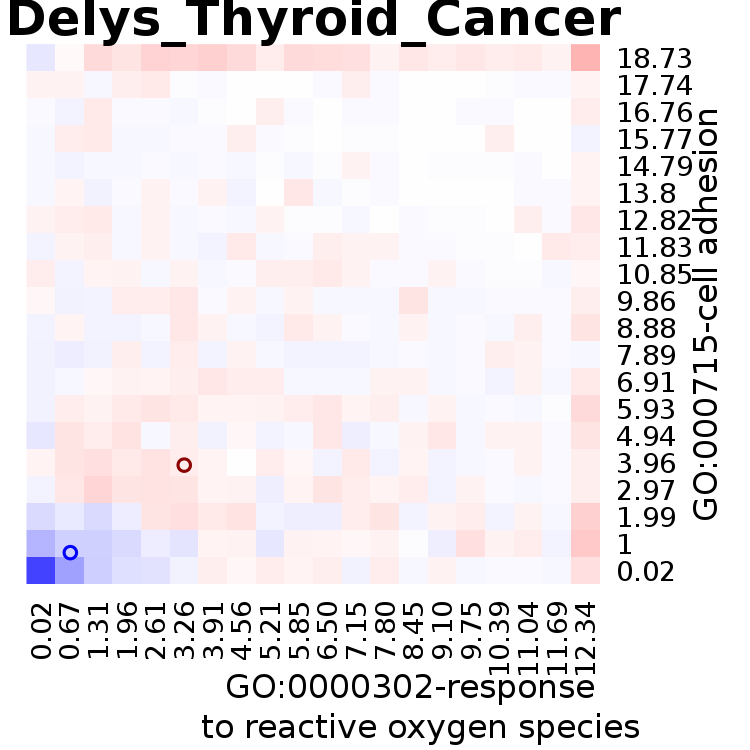
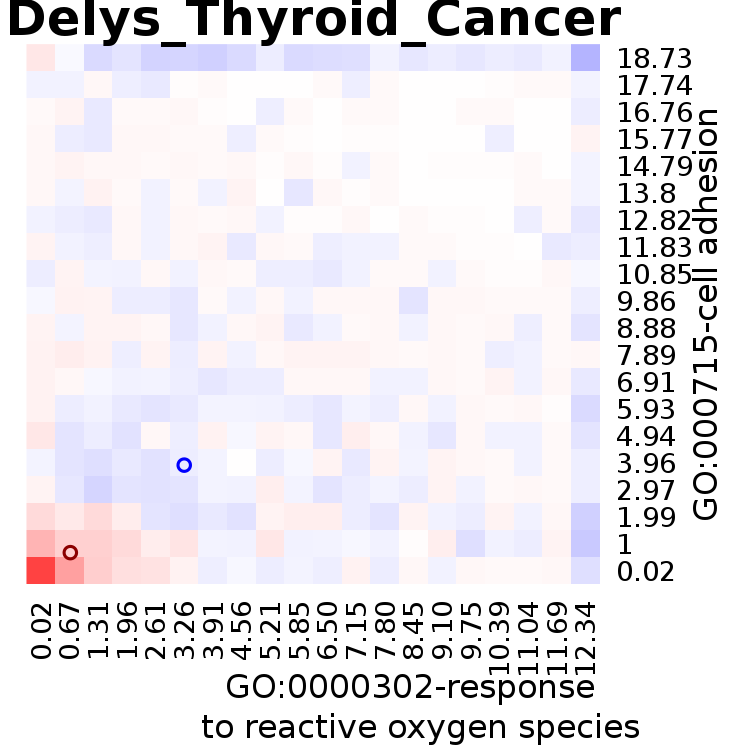
address comments

diff --git a/body.tex b/body.tex
@@ -61,7 +61,8 @@ offers researchers the ability to gain additional
 insight beyond singular features, without the prolonged waiting time
 needed to train a complex machine learning model.
 Moreover, the identified feature pairs can be effortlessly
-visualized in a two-dimensional interface.
+visualized in a two-dimensional interface, \silu{which is the most intuitive visualization to human perception. 
+Thus, users can easily interpret how one object class is separated from the other object class, by looking at how these two classes of objects are scattered across the two-dimensional visualization.}
 However, quickly identifying top feature pairs
 in typical biological datasets with many features
 is a challenging task due to some fundamental limitations:
@@ -698,11 +699,14 @@ for ranking \topk feature pairs using our
 Rocchio-based measure---we report the running time 
 and accuracy 
 of the algorithms. 
-Finally, we enumerate and visualize 
-the \topk feature pairs returned by \genviz, 
-compare them to the corresponding \topk single features, 
-and examine their significance and 
-support in existing publications.
+Second, we compare the \topk feature pairs returned by \genviz with the corresponding \topk single features, 
+and examine their significance and support in existing publications.
+Last, we present some sampled visualizations to illustrate the separability of the object classes. 
+%Finally, we enumerate and visualize 
+% the \topk feature pairs returned by \genviz, 
+% compare them to the corresponding \topk single features, 
+% and examine their significance and 
+% support in existing publications.
 
 %==================================================================
 \subsection{Evaluation Setup}
@@ -858,28 +862,28 @@ running time and the separability scores of their \topthousand reported feature 
 \begin{table*}[t]
 \centering
 \small
-\begin{tabular}{|c|c|c|c|c|c|c|c|c|}
+\begin{tabular}{|c|c|c|c|c||c|c|}
  %\hline
 
  \hline
- & \trans & \earlyT & Object Ordering & \sampling & Candidate Ordering & \traversal & Feature Ordering & Complexity\\
+ & \earlyT & \sampling & Candidate Ordering & \traversal & Approximation & Complexity\\
  \hline
- \baseline & yes & no & no & no & no & Any & no & $O(m^2n)$\\
+ \baseline & no  & no & no & Any & no &$O(m^2n)$\\
  \hline
  %\early & yes & yes & no & no & no & Any & no & $O(m^2n)$\\
  % \hline
- \earlyOrder & yes & yes & yes & no & no & Any & no & $O(m^2n)$\\
+ \earlyOrder  & yes & no & no & Any & no & $O(m^2n)$\\
  \hline
- \samp & yes & no & no & yes & no & Any & no & $O(mn+m^2|\sss|+|\cc|n)$\\
+ \samp  & no & yes & no & Any & yes(guarantee) & $O(mn+m^2|\sss|+|\cc|n)$\\
  \hline
- \sampOpt & yes & no & no & yes & yes & Any & no & $O(mn+m^2|\sss|+|\cc|n)$\\
+ \sampOpt  & no & yes & yes & Any  & yes(guarantee) & $O(mn+m^2|\sss|+|\cc|n)$\\
  \hline
- \horiz & yes & no & no & yes & yes & Horizontal & yes & $O(mn+\chi|\sss|+|\cc|n)$\\
+ \horiz   & no & yes & yes & Horizontal & yes(heuristic) & $O(mn+\chi|\sss|+|\cc|n)$\\
  \hline
- \vertic & yes & no & no & yes & yes & Vertical & yes & $O(mn+\chi|\sss|+|\cc|n)$ \\
+ \vertic   & no & yes & yes & Vertical  & yes(heuristic) & $O(mn+\chi|\sss|+|\cc|n)$ \\
  \hline
  \end{tabular}
-\caption{Selected Algorithms Using Different Optimization Modules. For each algorithm (row), shows which optimization modules are employed and the running time complexity for that combination where $m$ and $n$ are the number of features and objects, $\sss$ is the sampled set size, $\chi$ is the limit on the number of feature pairs considered, and $\cc$ is the number of generated feature pair candidates.}
+\caption{Selected Algorithms Using Different Optimization Modules. All algorithms, including the \baseline, are using \trans. In addition, \earlyT and \traversal are coupled with object ordering and feature ordering by default, respectively. For each algorithm (row), shows which optimization modules are employed, whether the algorithm is returning the exact answer or an approximation answer, and the running time complexity for that combination. The term "guarantee" ("heuristic", resp.) indicates that the returned answer is with (without, resp.) stochastic guarantee. In addition, $m$ and $n$ are the number of features and objects, $\sss$ is the sampled set size, $\chi$ is the limit on the number of feature pairs considered, and $\cc$ is the number of generated feature pair candidates.}
 \label{tbl:alg}
 \vspace{-18pt}
 \end{table*}
@@ -891,9 +895,9 @@ running time and the separability scores of their \topthousand reported feature 
 
 
 \stitle{Brute Force vs. Rocchio-based.} As we have discussed in Section~\ref{sec:metric}, when using brute force, we need to consider $O(n^2)$ lines in order to find the best separating line $\ell^* \leftarrow \arg_\ell \max \{\theta_{i,j}^{\ell}\}$, leading to a total running time complexity $O(n^2m^2)$ when considering all feature pairs. An alternative is to use Rocchio-based representative separating line $L$, dramatically reducing $O(n^2)$ lines considered to $O(1)$. Since the brute force method becomes computationally infeasible for datasets with large $n$, we compared the Rocchio-based measure to the brute force-based measure using
-%a small $\widehat{\oo}$ for
-the 10 datasets in \msig, for which the average number of positive objects was 295.
-\sinha{Is the notation correct? Isnt 295 the average number of *positive* objects? } \cb{silu, I am also slightly confused. did we do the brute force comparison with pos vs neg msig or pos vs all msig?}
+a small $\widehat{\oo}$ for
+the 10 datasets in \msig, for which the average number of positive \silu{total} objects was 295.
+\sinha{Is the notation correct? Isnt 295 the average number of *positive* objects? } \cb{silu, I am also slightly confused. did we do the brute force comparison with pos vs neg msig or pos vs all msig?} \silu{pos vs neg msig}
 We call the brute force-based separability score the {\em true} separability score, since it examines all possible separating lines. We first find the best feature pair using Rocchio-based measure and the brute force based measure separately (potentially different feature pairs) and then calculate the ratio of the true separability scores of the Rocchio versus the brute force best feature pairs (Figure~\ref{fig:brute_rocchio_ratio}). We observe that the Rocchio-based method picks a best feature pair that has true separability score similar to the best pair picked by brute force, with the ratio of the two scores being better than 0.94 in all ten datasets. Second, for the best feature pair identified by Rocchio-based method, we calculate the ratio of the brute force-based separability score and Rocchio-based separability score (Figure~\ref{fig:brute_rocchio_score}), and find the difference to be small.
 \agp{odd to have this here when this section is mostly about algo comparison. maybe bring it up later?}
 
@@ -915,7 +919,7 @@ First, let us compare the median running times among different algorithms. For \
 {\em (c) \traversal:} the modules \horiz and \vertic achieve an additional $6\times$ speed-up compared to \sampOpt by terminating after only considering $\chi=10^7$ feature pairs, approximately $\frac{1}{20}$ (see Example~\ref{examp:traversal}) of all possible feature pairs. This speedup of \horiz and \vertic is approaching the limit set by the feature ordering overhead (around $6s$) and the time for the \trans module (around $8s$). (Supplementary Table~\ref{tbl:supplement}). The improvement over \sampOpt is not stronger because the candidate generation phase of \sampOpt is able to remove a vast number of the feature pairs from full evaluation that would be also be ignored by \horiz and \vertic (see Supplementary Table~\ref{tbl:supplement}).
 
 Next, let us examine the log-scale interquartile range (IQR) of the running times for the different selected algorithms (Figure~\ref{fig:time}). We observe that \earlyOrder has the largest interquartile range, indicating that the \earlyT module used by this algorithm, which tries to reduce the number of objects evaluated for each feature pair, is very dependent on the object set and feature values. As we discussed in Section~\ref{ssec:earlyT}, \earlyT has no guarantee on improving the running time. In fact, the algorithm can occasionally be worse than the \baseline as shown in Figure~\ref{fig:lincs_time} because \earlyT incurs additional overhead for checking the criteria for pruning and early termination when scanning the object list for each feature pair.
-\cb{we need more clarity (maybe in the discussion) why the early termination is included if it is not performing well, i.e. cases where we would recommend using it }
+\cb{we need more clarity (maybe in the discussion) why the early termination is included if it is not performing well, i.e. cases where we would recommend using it } \silu{in most cases, it is performing better than the baseline. If in comparison with other algorithms, early termination has better separability quality.}
 
 Similar results can be found in Figure~\ref{fig:lincs_time} for \lincs. Here, we observe over $400\times$ average decrease in the running time of finding the \topk feature pairs that separate the \lincs experiments of a single perturbagen from others. The greatest speedup comes with adding the \sampling module. In this setting, only $100K$ feature pair candidates, i.e., $|\cc|$, are checked out of all $250M$ feature pairs (Supplementary Table~\ref{tbl:supplement}). For the selected algorithms with best running times, \horiz and \vertic, the pre-transformation and feature ordering overhead account for an average of $45+35=80s$ of the overall 104 and 94 median seconds respectively.
 
@@ -960,7 +964,7 @@ In this section, we quantify how statistically significant the top ranking resul
 \end{figure}
 
 
-\stitle{Single Feature.} Finding \topk single features is a special case of finding feature pairs by setting $i=j$, as noted in Section~\ref{ssec:trans} and Equation~\ref{eqn:s_object_transform_single}\agp{Fix if this is commented out}. For each single feature obtained, we compute the p-value with Fisher's exact test, denoted as $pval$. Next, we define the Bonferroni corrected p-value as $corrected\_pval= pval\times m \times n$, since there are $m \times n$ possible hypotheses, one for each possible single feature and separating line. We say a selected feature is significant if the corrected p-value is smaller than the threshold $10^{-5}$, i.e., $-\log_{10} (corrected\_pval)\geq5$. In Figure~\ref{fig:singleF}, we plot the distribution of the corrected p-value of the \tophundred features reported for each dataset in \msig and \lincs. We observe that 10 out of 10 datasets in \msig and 32 out of 40 datasets in \lincs have at least one significant single feature. We will focus on these 10 runs in \msig and 32 datasets in \lincs for the remainder of the paper. We observe very small p-values, $\leq 10^{-50}$, in the left part of Figure~\ref{fig:msig_singleF} and \ref{fig:lincs_singleF}, indicating a very strong relationship between the predicted and true object labels. This shows the effectiveness of linear separability and the Rocchio-based separability metric in identifying features that predict the different classes of objects.
+\stitle{Single Feature.} Finding \topk single features is a special case of finding feature pairs by setting $i=j$. For each single feature obtained, we compute the p-value with Fisher's exact test, denoted as $pval$. Next, we define the Bonferroni corrected p-value as $corrected\_pval= pval\times m \times n$, since there are $m \times n$ possible hypotheses, one for each possible single feature and separating line. We say a selected feature is significant if the corrected p-value is smaller than the threshold $10^{-5}$, i.e., $-\log_{10} (corrected\_pval)\geq5$. In Figure~\ref{fig:singleF}, we plot the distribution of the corrected p-value of the \tophundred features reported for each dataset in \msig and \lincs. We observe that 10 out of 10 datasets in \msig and 32 out of 40 datasets in \lincs have at least one significant single feature. We will focus on these 10 runs in \msig and 32 datasets in \lincs for the remainder of the paper. We observe very small p-values, $\leq 10^{-50}$, in the left part of Figure~\ref{fig:msig_singleF} and \ref{fig:lincs_singleF}, indicating a very strong relationship between the predicted and true object labels. This shows the effectiveness of linear separability and the Rocchio-based separability metric in identifying features that predict the different classes of objects.
 
 %
 %This shows the effectiveness of our Rocchio-based
@@ -1087,7 +1091,7 @@ In Supplementary Table \cb{in google spreadsheet https://goo.gl/Z5jJ6Q for now},
 \vspace{-5mm}
 \label{fig:viz}
 \end{figure}
-\cb{silu, i think the colors in the figure are reversed from the legend. if so, can you change the figure? red for negative is more natural of bioinformatics}
+\cb{silu, i think the colors in the figure are reversed from the legend. if so, can you change the figure? red for negative is more natural of bioinformatics} \silu{updated, please check}
 
 As discussed in Section~\ref{sec:intro}, the output of \genviz is not simply a ranking of the top feature pairs with their separability scores, but also a visualization that helps users to interpret the separability of the object classes. In Figure~\ref{fig:viz}, we depict sample output visualizations from the \msig and \lincs runs. For \msig, we select the feature pair with the highest improved p-value, i.e., $improv\_quot$, using the \sampOpt algorithm. For our \lincs representative, we visualize the gene feature pair (GLRX, NME7) for the drug vorinostat as described in the previous section. We use a heatmap to illustrate the distribution of positive objects (in blue) and negative objects (in red) under the selected feature pair $(f_i,f_j)$, where $f_i$ is x-axis, $f_j$ is y-axis. The color represents the difference between the weighted number of positive objects and negative objects. If the number of positive objects is larger than negative objects in the cell, the cell is colored as blue, otherwise, it is red. For the ease of interpretation, we also add the centroids of positive and negative objects using blue circle and red circle respectively. For the \msig example (Figure~\ref{fig:viz}(a)) \cb{relates (DELYS\_THYROID\_CANCER\_DN, response to reactive oxygen species, cell adhesion) which consistent with role of cell adhesion in cancer prognosis}, we observe that the feature values for negative objects is clustered around zero, while positive objects have larger values overall, indicating stronger network relationships to the feature Gene Ontology terms. For the \lincs example (Figure~\ref{fig:viz}(b)), positive objects mostly have elevated expression for the selected gene significantly different from the negative objects with zero-mean Gaussian distribution. The direction of this differential gene expression for both genes is consistent with literature for vorinostat experiments \needcite{CTD pubmeds: 22083351, 27188386}. These above two examples illustrate how visualization of significant feature pairs can be a useful way to explain the separability of object sets and understand the data.
 
